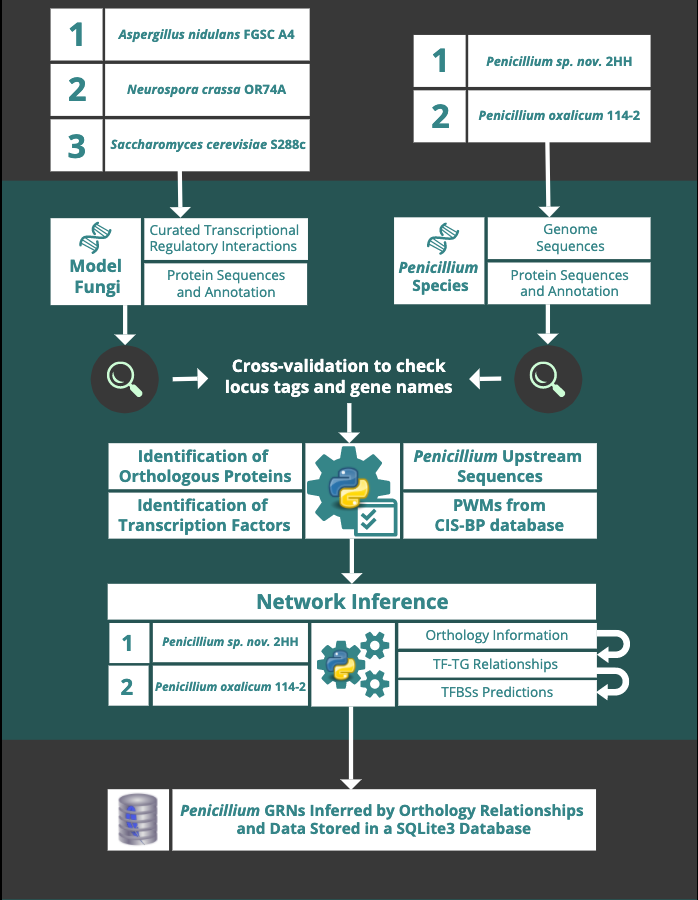
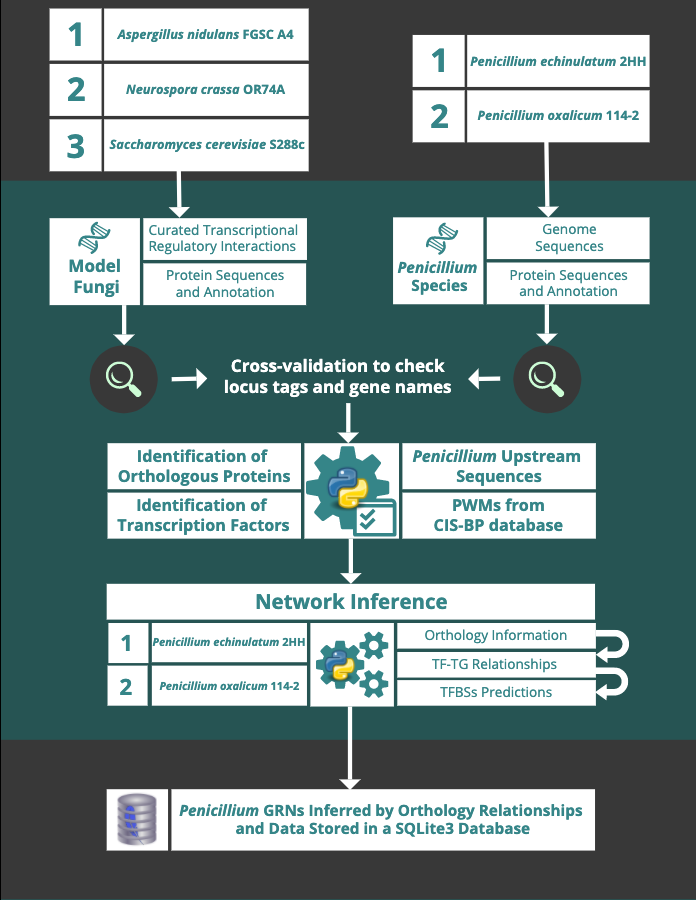
Penicillium echinulatum 2HH

diff --git a/bin/funregulation_tf_heatmap.py b/bin/funregulation_tf_heatmap.py
@@ -50,7 +50,7 @@ def plot_heatmap():
     input_tf_domains = input_tf_domains.pivot('Species','Families', 'Quantity')
     
     ####  Custom Sorting  ####
-    input_tf_domains.index = pd.CategoricalIndex(input_tf_domains.index, categories= ['P_sp._nov._2HH', 'P_oxalicum_114-2', 'A_nidulans_FGSC_A4', 'N_crassa_OR74A', 'S_cerevisiae_S288C'])
+    input_tf_domains.index = pd.CategoricalIndex(input_tf_domains.index, categories= ['P_echinulatum_2HH', 'P_oxalicum_114-2', 'A_nidulans_FGSC_A4', 'N_crassa_OR74A', 'S_cerevisiae_S288C'])
     input_tf_domains.sort_index(level=0, inplace=True)
 
     ####  Free input parameters ####
